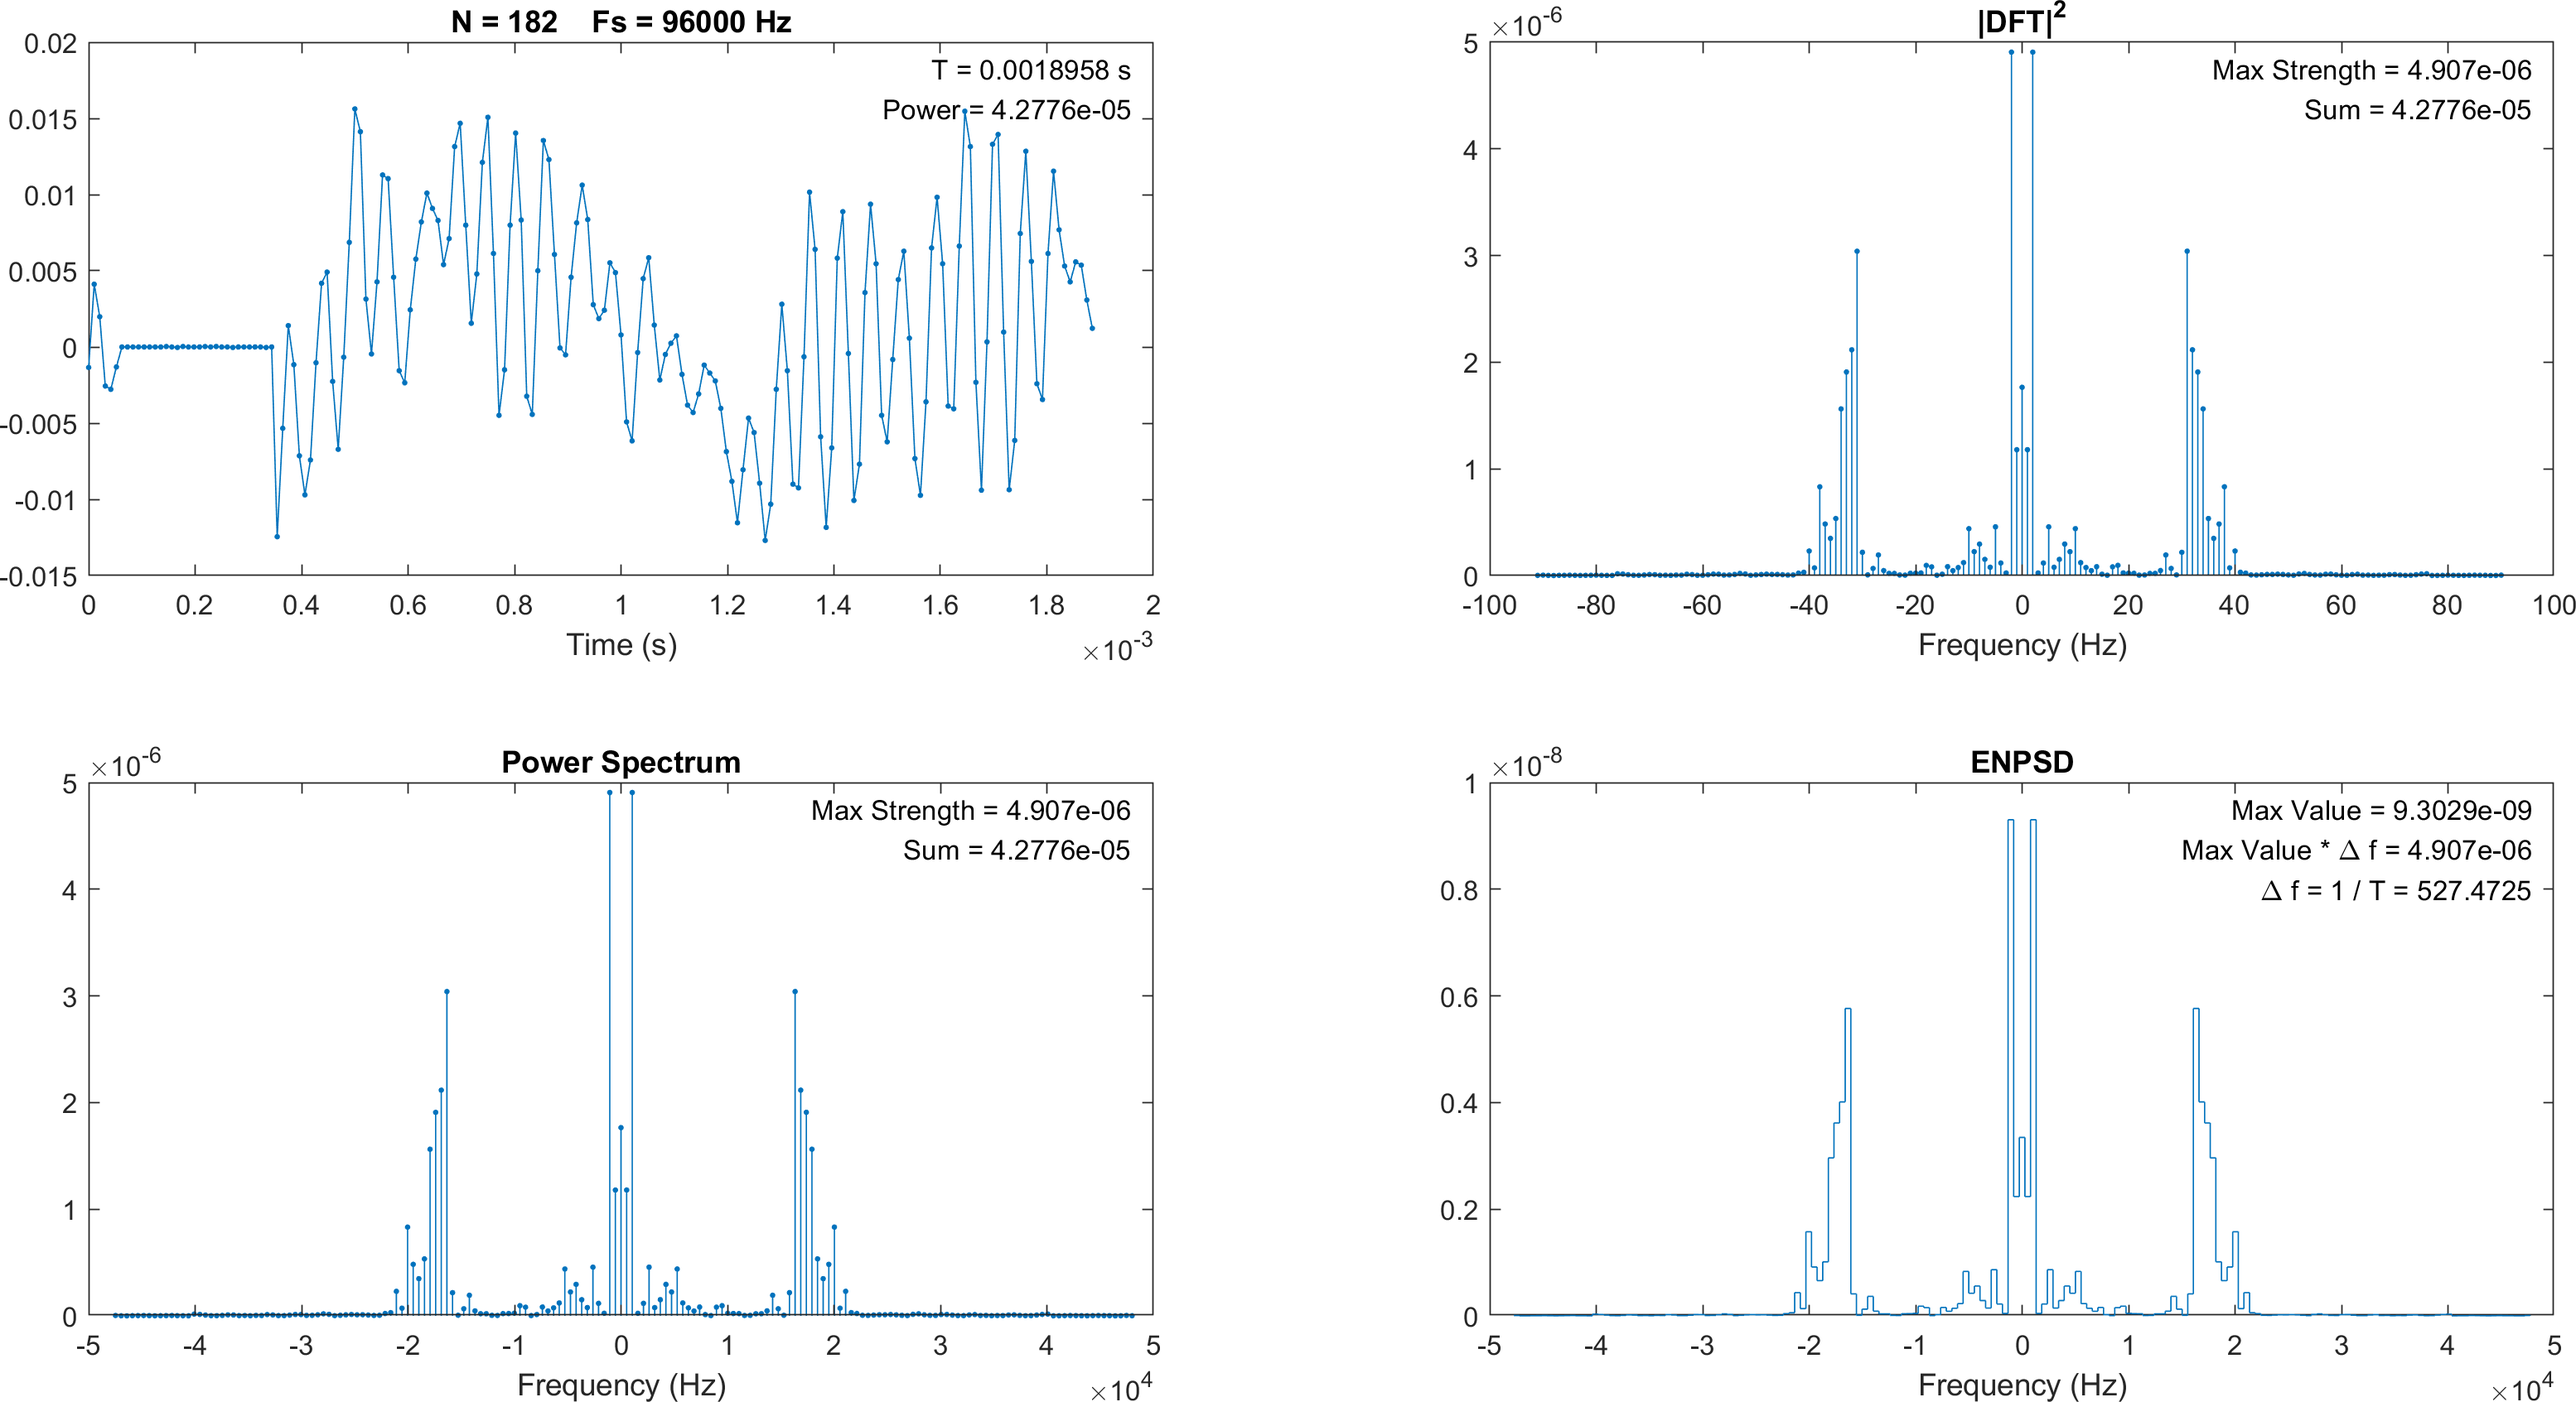
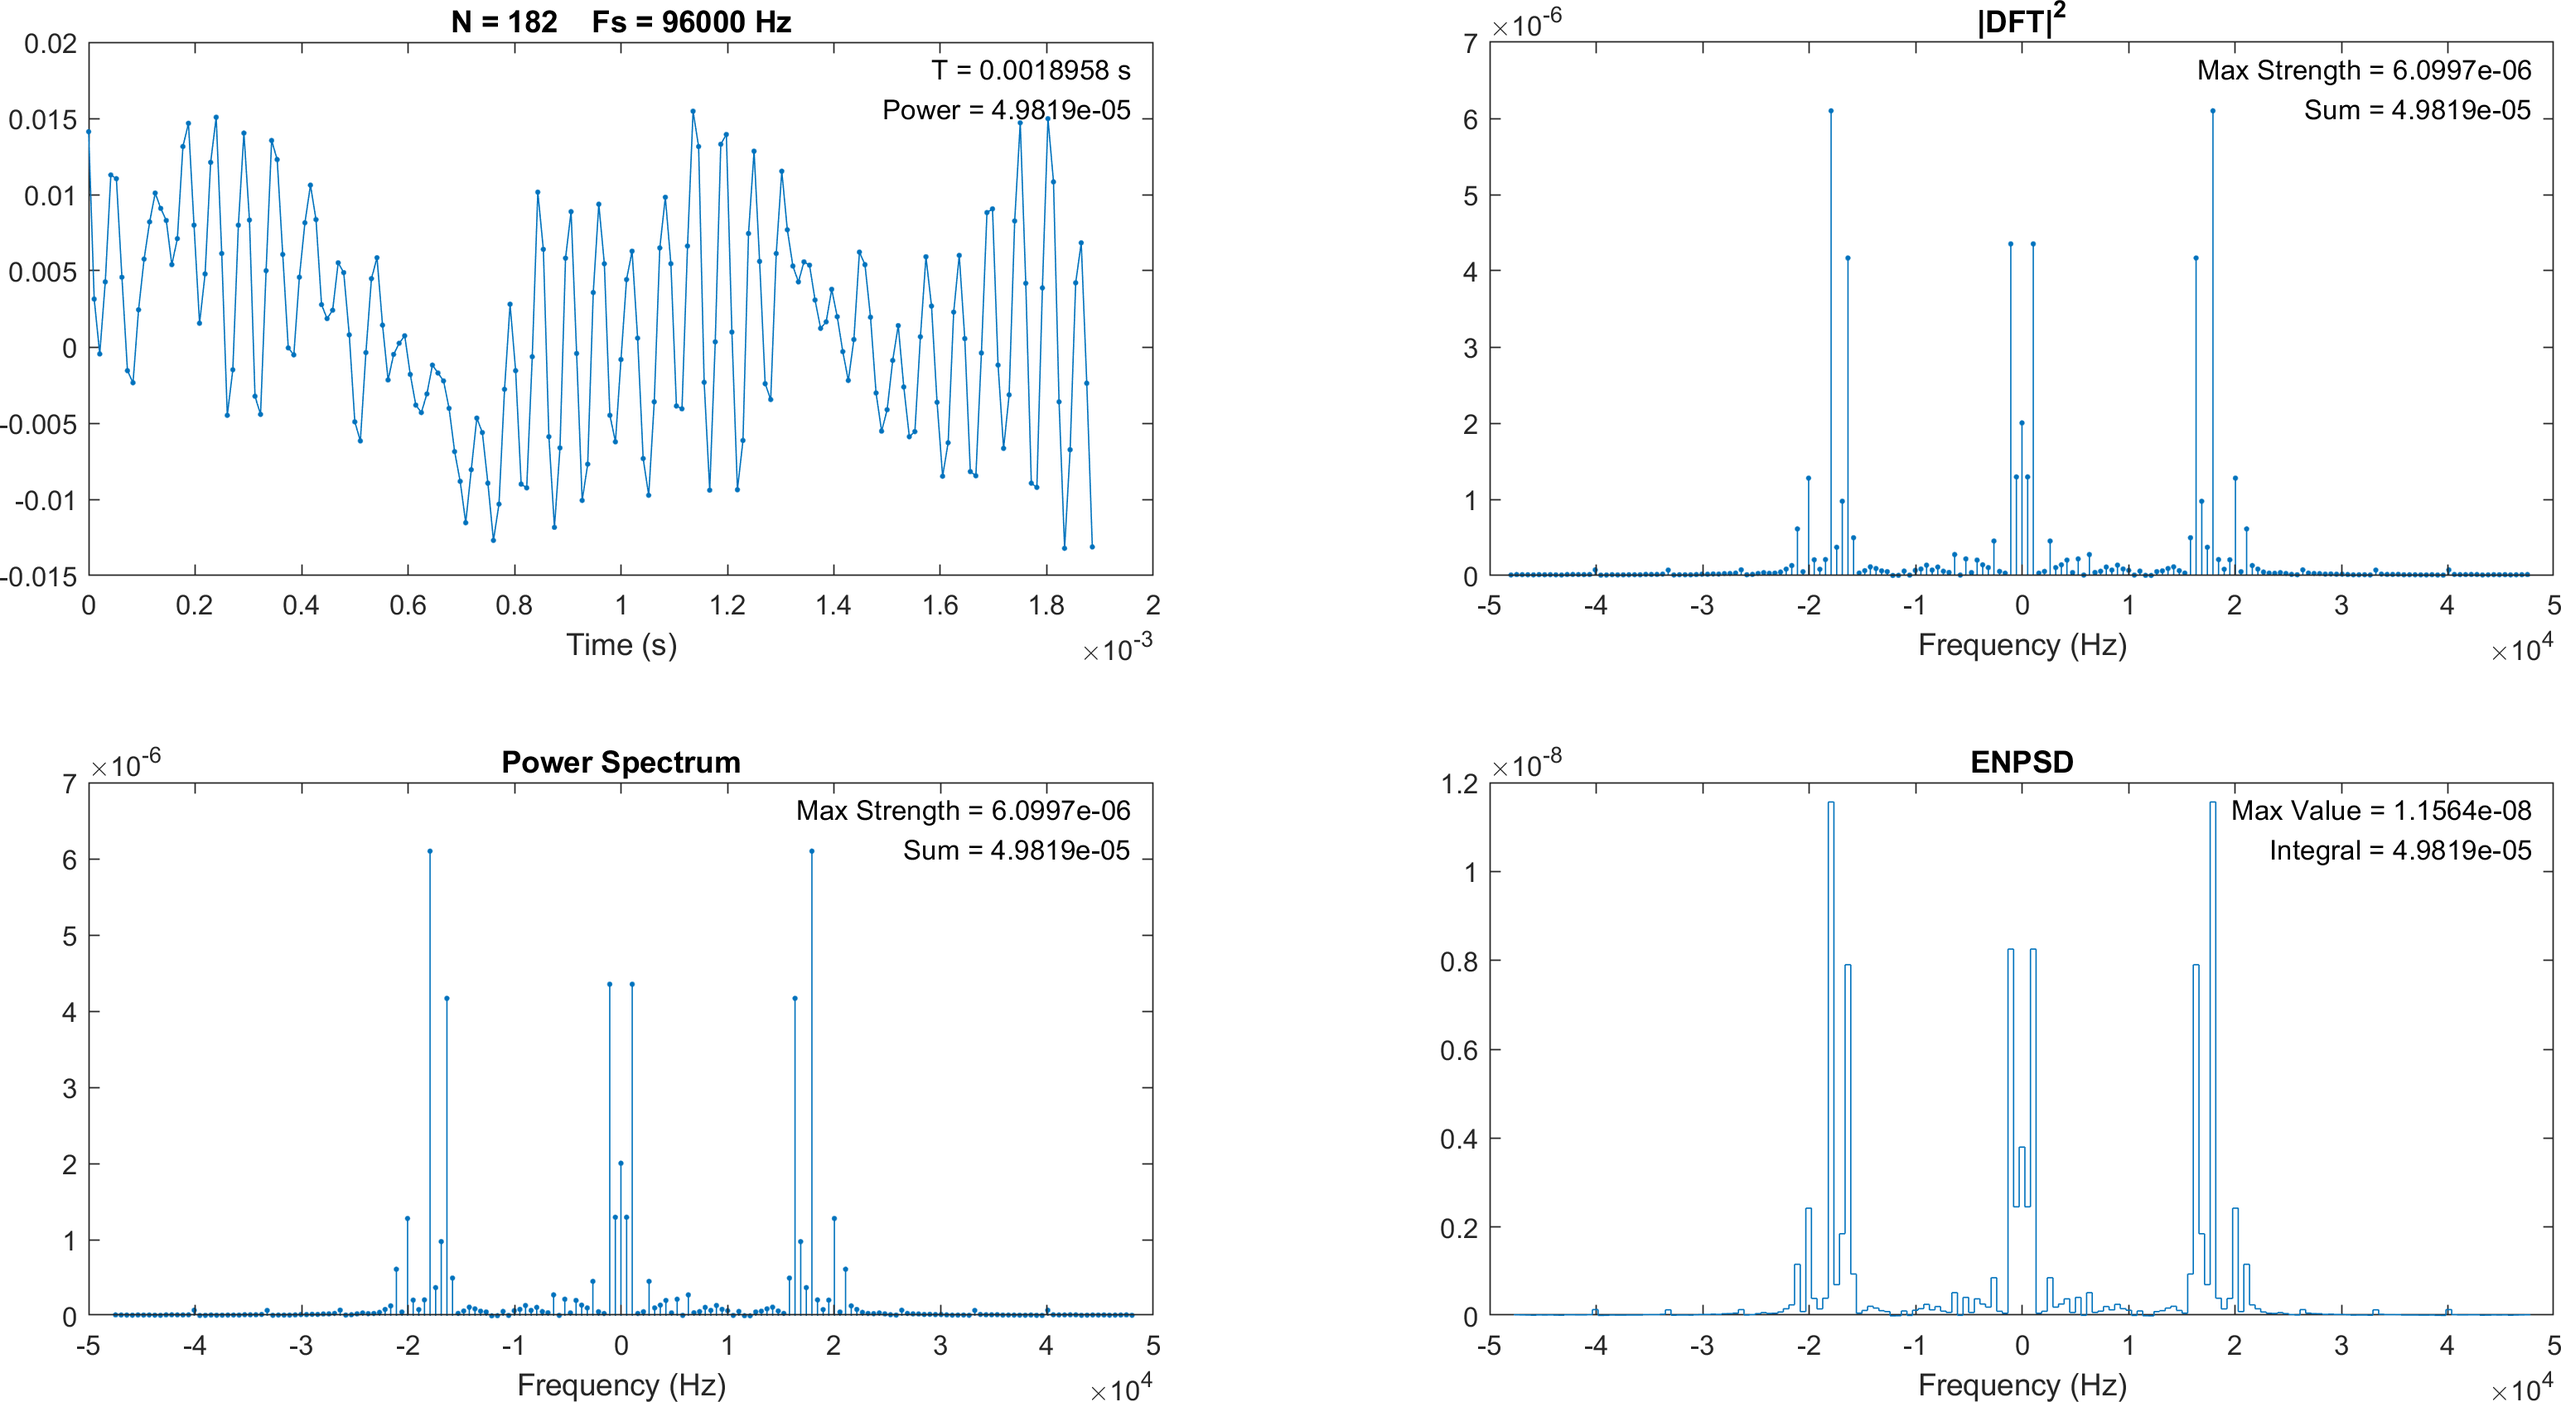
Add files via upload

diff --git a/myPlotDFT_PS_PSD.m b/myPlotDFT_PS_PSD.m
@@ -10,8 +10,8 @@ T = N/Fs;
 [px, fpx] = periodogram(x, [], N, Fs, 'centered', 'power');
 % Periodogram ENPSD
 [psdx, fpsdx] = periodogram(x, [], N, Fs, 'centered', 'psd');
+delta_fpsdx = mean(diff(fpsdx));
 
-figure(1);
 subplot(2,2,1);plot(t,x,'.-');xlabel('Time (s)');
 title(['N = ' num2str(N) '    Fs = ' num2str(Fs) ' Hz']);
 text(0.98, 0.95, ['T = ' num2str(T) ' s'], 'Units', 'normalized', 'HorizontalAlignment', 'right');
@@ -27,10 +27,9 @@ title('Power Spectrum');
 text(0.98, 0.95, ['Max Strength = ' num2str(max(px))], 'Units', 'normalized', 'HorizontalAlignment', 'right');
 text(0.98, 0.875, ['Sum = ' num2str(sum(px))], 'Units', 'normalized', 'HorizontalAlignment', 'right');
 
-subplot(2,2,4);stairs(fpsdx-0.5*(1/T), psdx);xlabel('Frequency (Hz)');
+subplot(2,2,4);stairs(fpsdx-0.5*delta_fpsdx, psdx);xlabel('Frequency (Hz)');
 title('ENPSD');
 text(0.98, 0.95, ['Max Value = ' num2str(max(psdx))], 'Units', 'normalized', 'HorizontalAlignment', 'right');
-text(0.98, 0.875, ['Max Value * \Delta f = ' num2str(max(psdx)/T)], 'Units', 'normalized', 'HorizontalAlignment', 'right');
-text(0.98, 0.80, ['\Delta f = 1 / T = ' num2str(1/T)], 'Units', 'normalized', 'HorizontalAlignment', 'right');
+text(0.98, 0.875, ['Integral = ' num2str(sum(psdx)*delta_fpsdx)], 'Units', 'normalized', 'HorizontalAlignment', 'right');
 
 end

diff --git a/DFT_PS_PSD.m b/DFT_PS_PSD.m
@@ -1,3 +1,5 @@
+close all;
+
 % Initial Values
 Fs = 100;
 f = 1;
@@ -5,8 +7,16 @@ varphi = 0;
 pause_time = 1;
 pause_time_audio = 0.2;
 
+% Create a figure.
+h_DFT_PS_PSD = figure('name', 'PS_Window');
+
 % Effect of Changing N
 for N = 20:20:320
+    if(isgraphics(h_DFT_PS_PSD))
+       set(0, 'CurrentFigure', h_DFT_PS_PSD)
+    else
+       break;
+    end
     [x,~] = GetSine(f, varphi, Fs, N);
     myPlotDFT_PS_PSD(x, Fs);
     pause(pause_time);
@@ -14,6 +24,11 @@ end
 
 % Effect of Changing varphi
 for varphi = 0:pi/4:2*pi
+    if(isgraphics(h_DFT_PS_PSD))
+       set(0, 'CurrentFigure', h_DFT_PS_PSD)
+    else
+       break;
+    end
     [x,~] = GetSine(f, varphi, Fs, N);
     myPlotDFT_PS_PSD(x, Fs);
     pause(pause_time);
@@ -24,6 +39,11 @@ end
 N_1 = 182-1;
 
 for i = 1:length(x)-N_1
+    if(isgraphics(h_DFT_PS_PSD))
+       set(0, 'CurrentFigure', h_DFT_PS_PSD)
+    else
+       break;
+    end
     myPlotDFT_PS_PSD(x(i:i+N_1,2),Fs);
     pause(pause_time_audio);
 end
